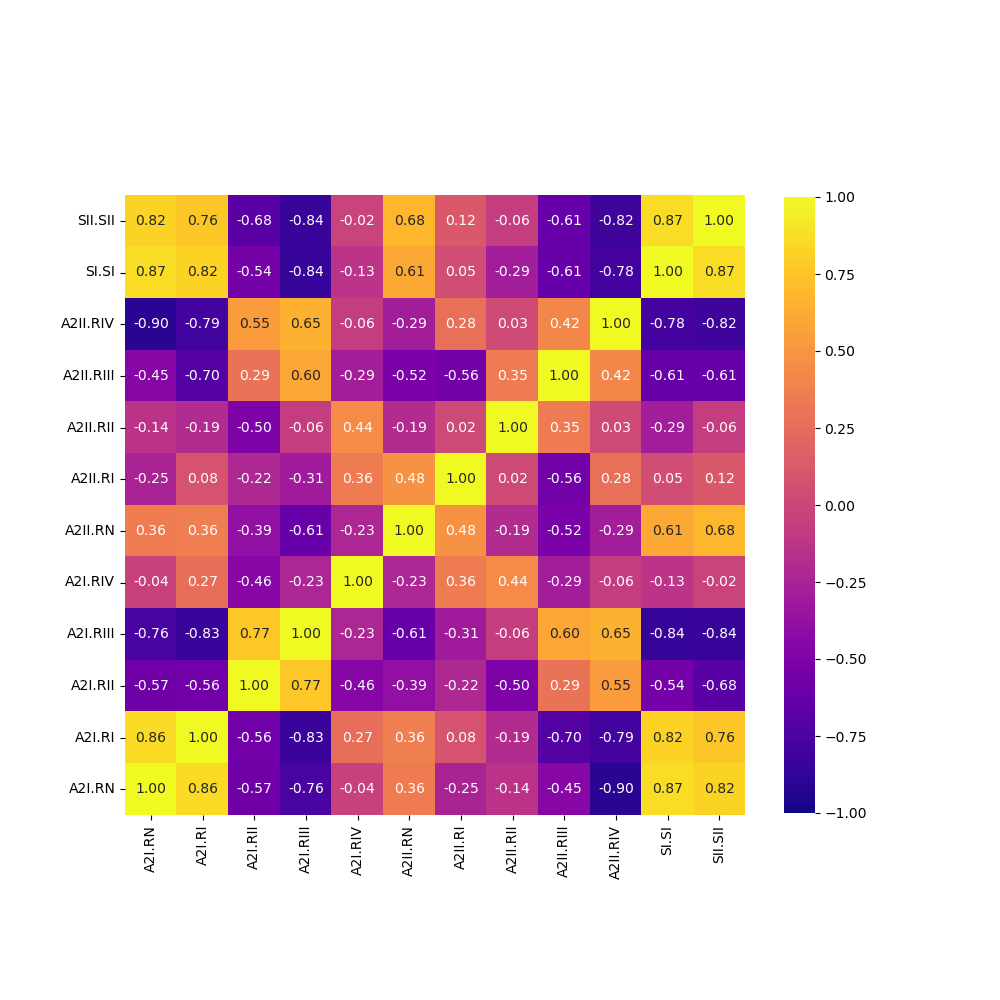
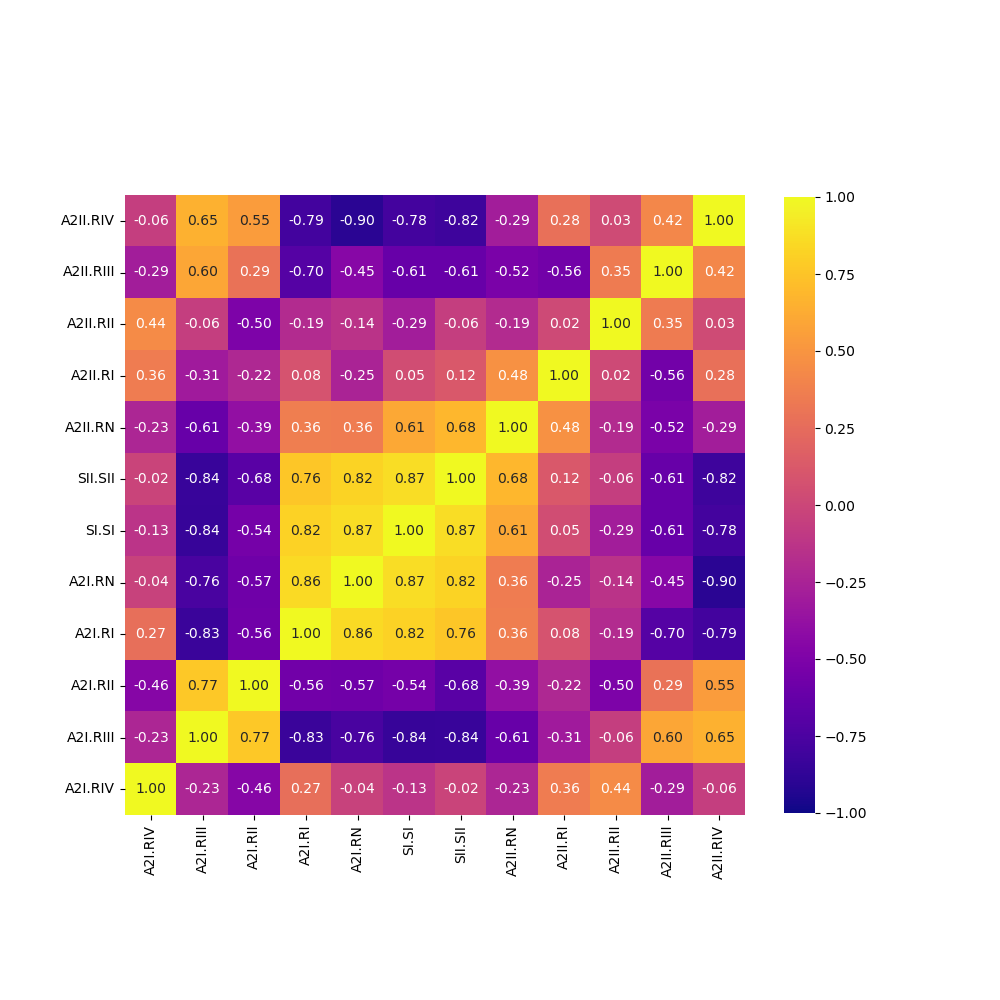
Fix reorder function

diff --git a/corr_regions.py b/corr_regions.py
@@ -246,7 +246,7 @@ class Corr():
         corr_array = pd.DataFrame.from_dict(corr_array, 
                                             orient = 'index', 
                                             columns = col_names)
-        self.correl_matix = corr_array
+        self.correl_matrix = corr_array
 
     def get_clusters(self):
         '''
